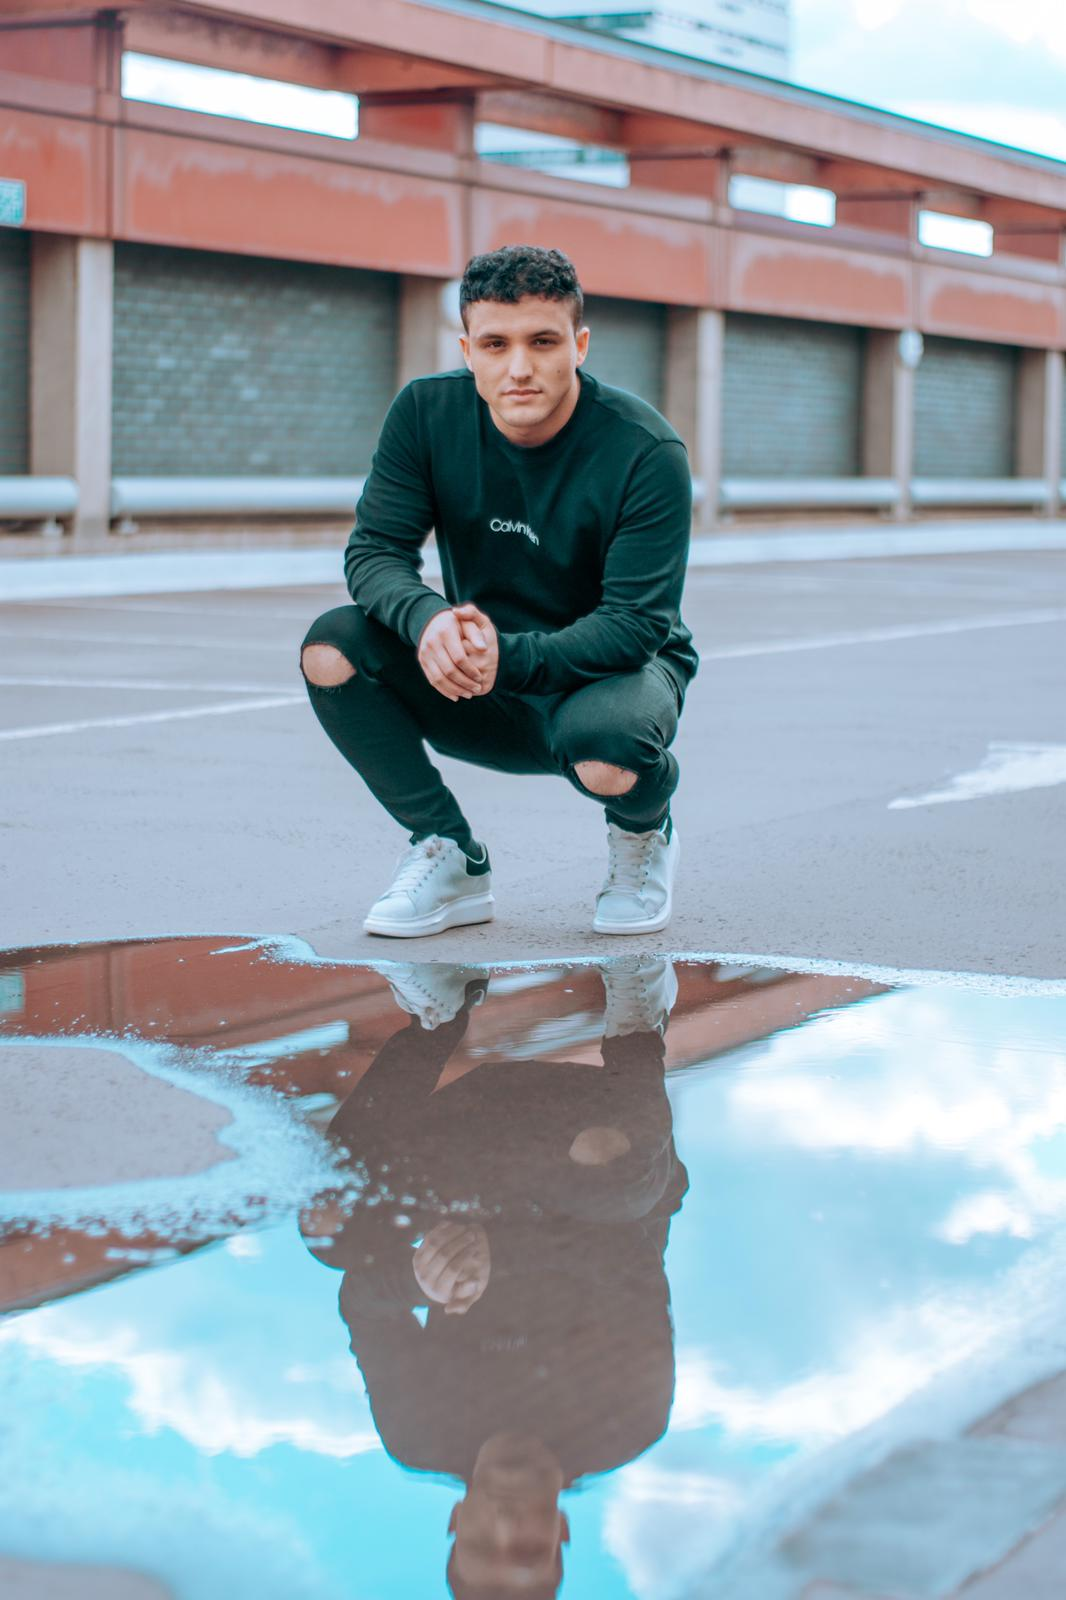
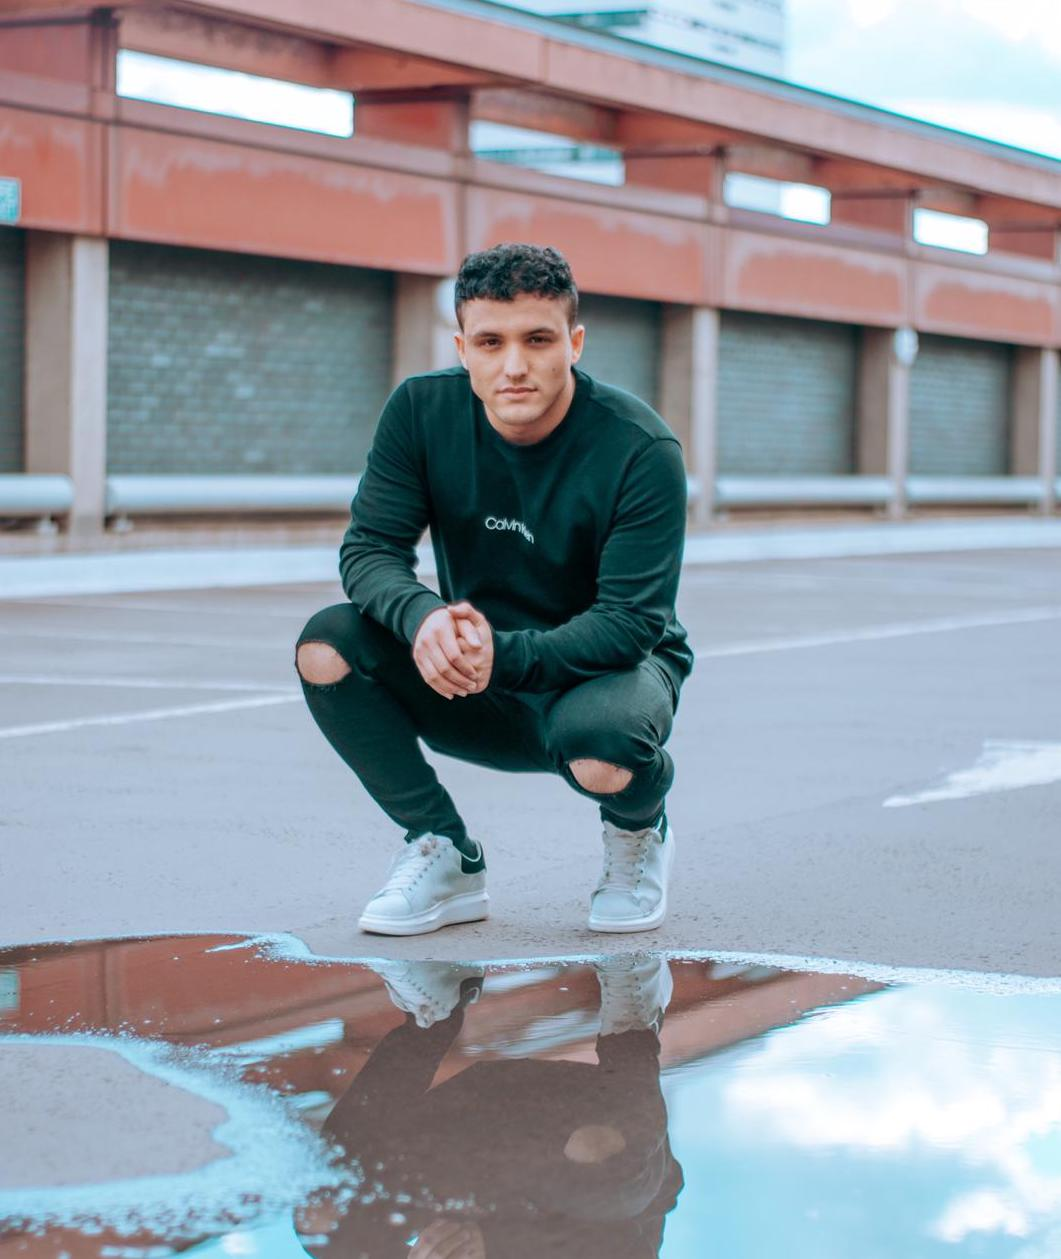
new changes for resi

diff --git a/Resi/courses.html b/Resi/courses.html
@@ -60,18 +60,10 @@
 
   <main id="main" class="main">
     <!-- ======= Team Section ======= -->
-    <section id="team" class="team section-bg reviews">
-      <div class="container">
-        <div class="section-title">
-          <h2>Profitable creators</h2>
-        </div>
+    <section class="hero d-flex align-items-center">
+      <div class="container-fluid">
         <div class="row">
-          <div class="content d-flex justify-content-center flex-wrap">
-            <div class="col-xl-8 align-self-center">
-              <img src="assets/img/services.png" class="img-fluid" alt="">
-            </div>
-          </div>
-
+          <div class="background-course-logo"></div>
         </div>
       </div>
     </section>    

diff --git a/Resi/assets/css/style.css b/Resi/assets/css/style.css
@@ -472,6 +472,20 @@ h6 {
   padding: 0;
 }
 
+.background-course-logo {
+  position: absolute;
+  z-index: 1;
+  width: 100%;
+  height: 100vh;
+  top: 0;
+  bottom: 0;
+  background-image: url("../img/bigprofitablecreators.jpg");
+  background-size: cover;
+  background-repeat: no-repeat;
+  background-position: center;
+  padding: 0;
+}
+
 .smaller-background-people {
   position: absolute;
   z-index: 1;
